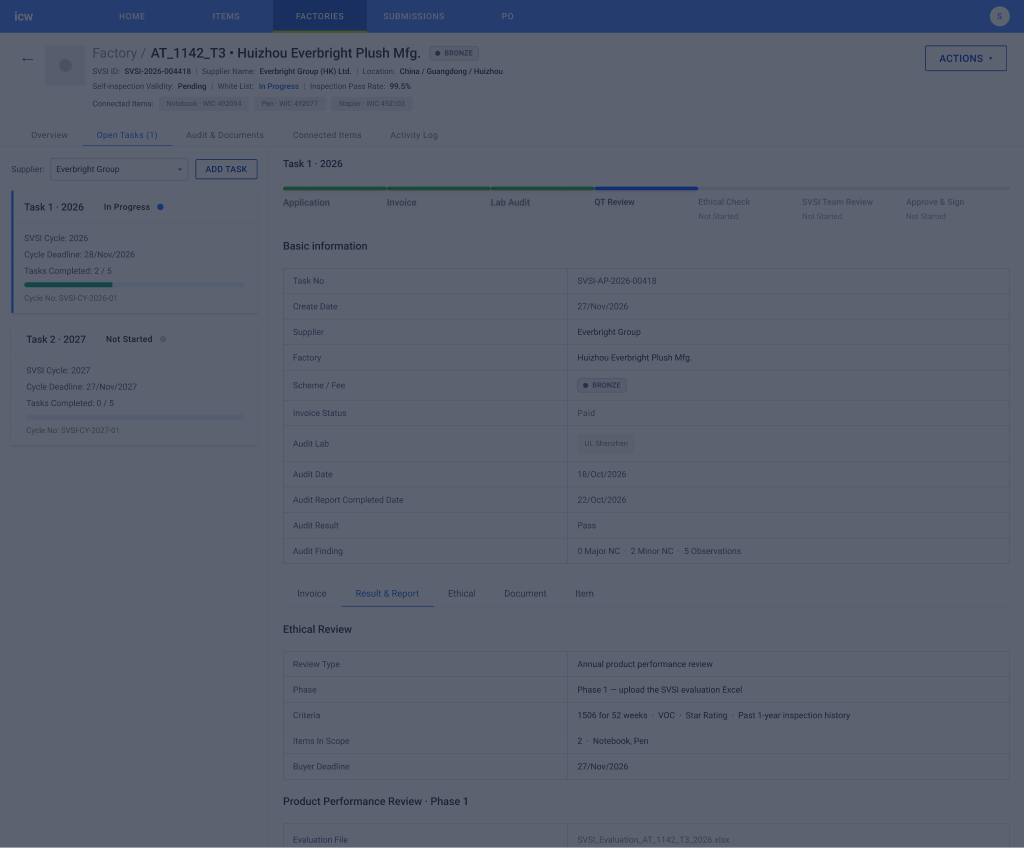
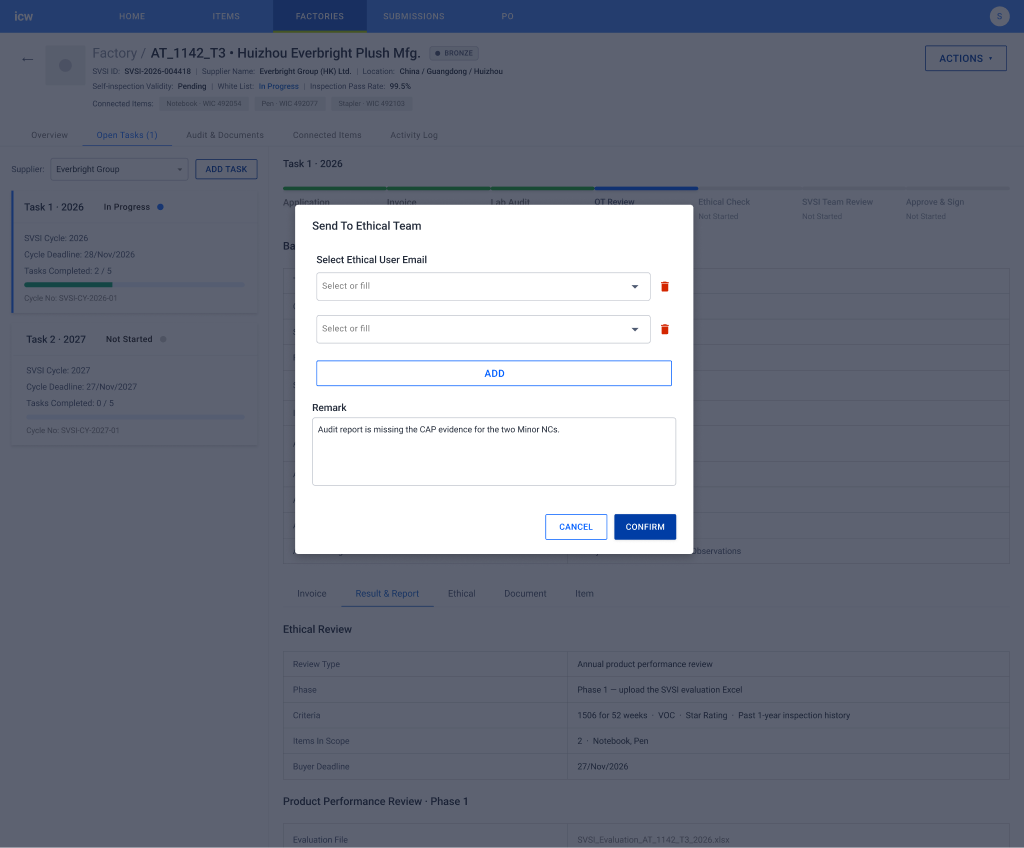
Use the Send To Ethical Team dialog for step 05
Swaps the placeholder screen for the frame that actually shows the
reviewer-email picker and remark, and rewrites the caption to match.

Changed region(s): [[0.2812, 0.2146, 0.6875, 0.6745]]

diff --git a/index.html b/index.html
@@ -453,11 +453,11 @@ img{max-width:100%}
   pulled from ICW for the buyer to verify.</p>
   <div class="frames">
     <div class="frame">
-      <a class="shot" href="https://www.figma.com/design/aJIs39okLTRsQMwk96NWrC/SVSI?node-id=380-2877" target="_blank" rel="noopener"><img src="shots/s12_ethical.png" alt="Send to ethical review dialog"></a>
+      <a class="shot" href="https://www.figma.com/design/aJIs39okLTRsQMwk96NWrC/SVSI?node-id=1832-7596" target="_blank" rel="noopener"><img src="shots/s12_ethical.png" alt="Send to ethical review dialog"></a>
       <div class="body">
-        <h3>Send to ethical review</h3>
-        <p>Criteria and items in scope are stated up front so the reviewer knows what they are judging.</p>
-        <a class="go" href="https://www.figma.com/design/aJIs39okLTRsQMwk96NWrC/SVSI?node-id=380-2877" target="_blank" rel="noopener">Open in Figma <span class="id">380:2877</span></a>
+        <h3>Send to ethical team</h3>
+        <p>The buyer picks one or more ethical reviewers by email and adds a remark. The review type, criteria and items in scope sit on the page behind, so the reviewer knows what they are judging.</p>
+        <a class="go" href="https://www.figma.com/design/aJIs39okLTRsQMwk96NWrC/SVSI?node-id=1832-7596" target="_blank" rel="noopener">Open in Figma <span class="id">1832:7596</span></a>
       </div>
     </div>
   </div>
